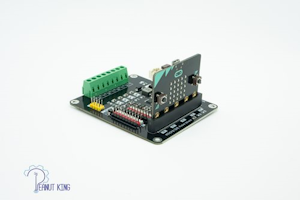
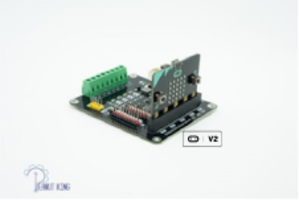
update

diff --git a/README.md b/README.md
@@ -2,6 +2,10 @@
 
 Peanut King micro:bit Shield V2 extension for motors, servos, sensors, and I2C modules.
 
+## ~ reminder
+
+### Works with micro:bit V2 ONLY
+
 ## Product URL
 
 [Peanut KING micro:bit Shield V2 Extension Shield](https://www.peanutkingsolution.com/en/product-page/peanut-king-micro-bit-shield-v2-%E6%93%B4%E5%B1%95%E6%9D%BF)
